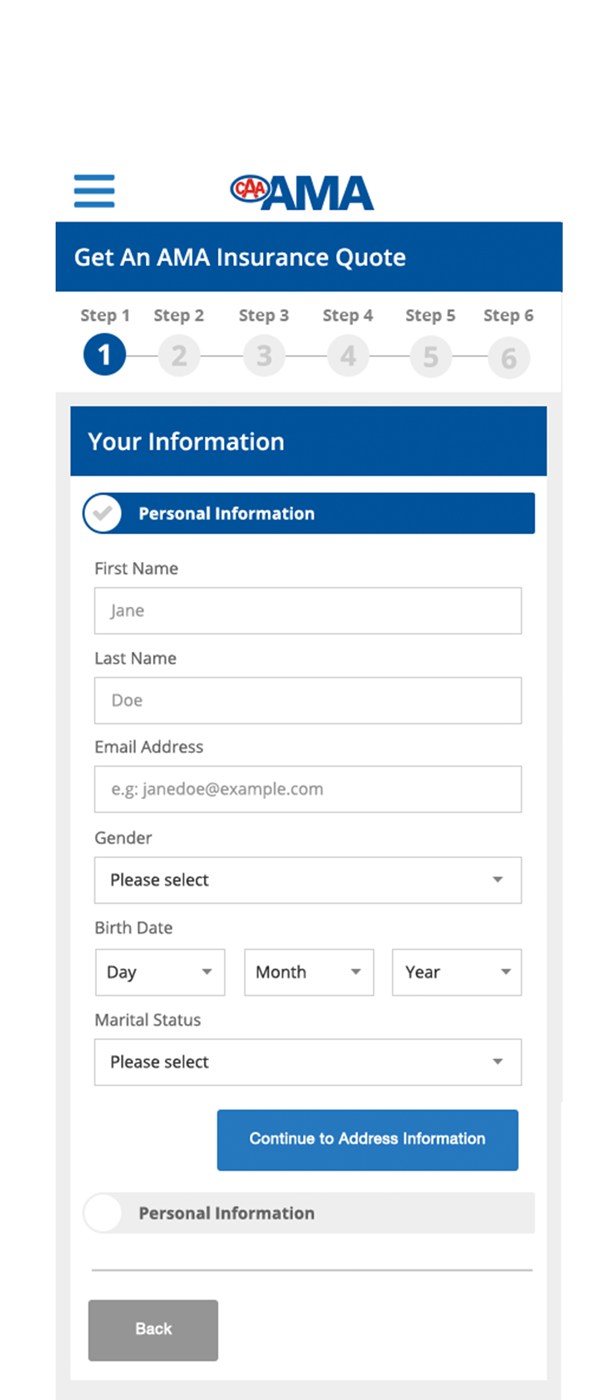
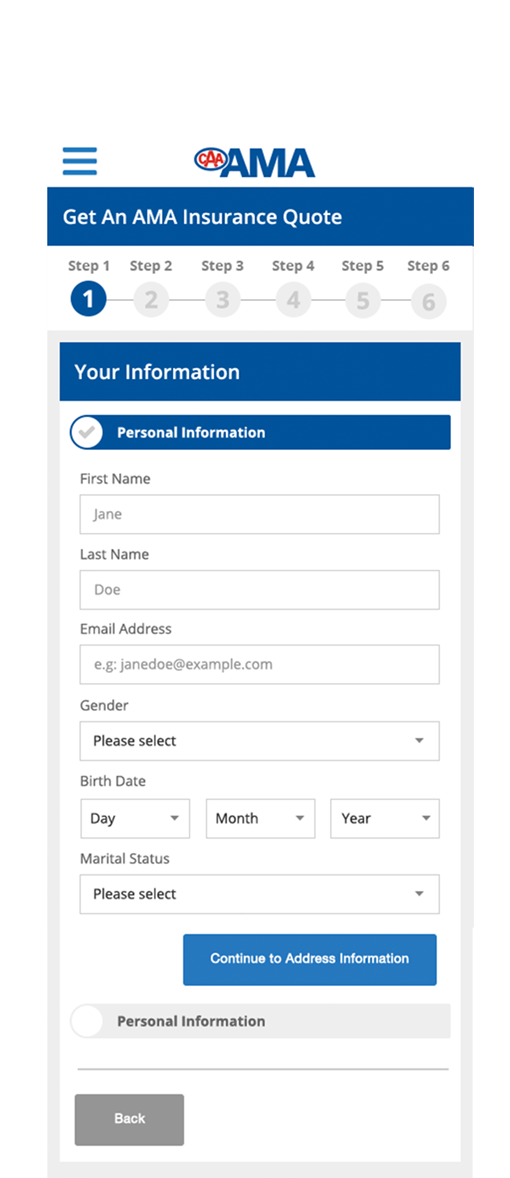
resizing images

diff --git a/scss/style.scss b/scss/style.scss
@@ -985,7 +985,7 @@ footer{
 
   .mobile-frame{
     float: none;
-    max-width: 250px;
+    max-width: 255px;
     margin: 0 auto;
     display: block;
   }
